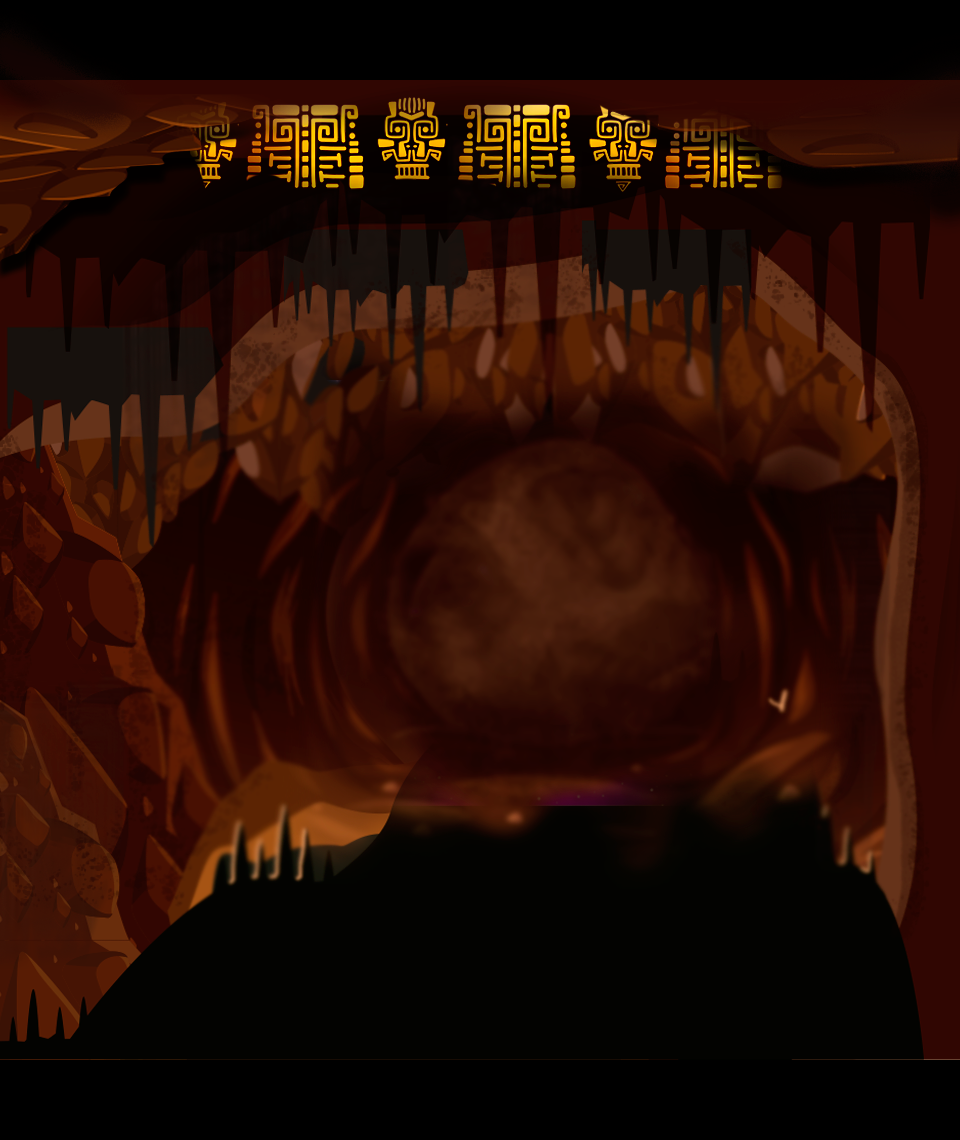
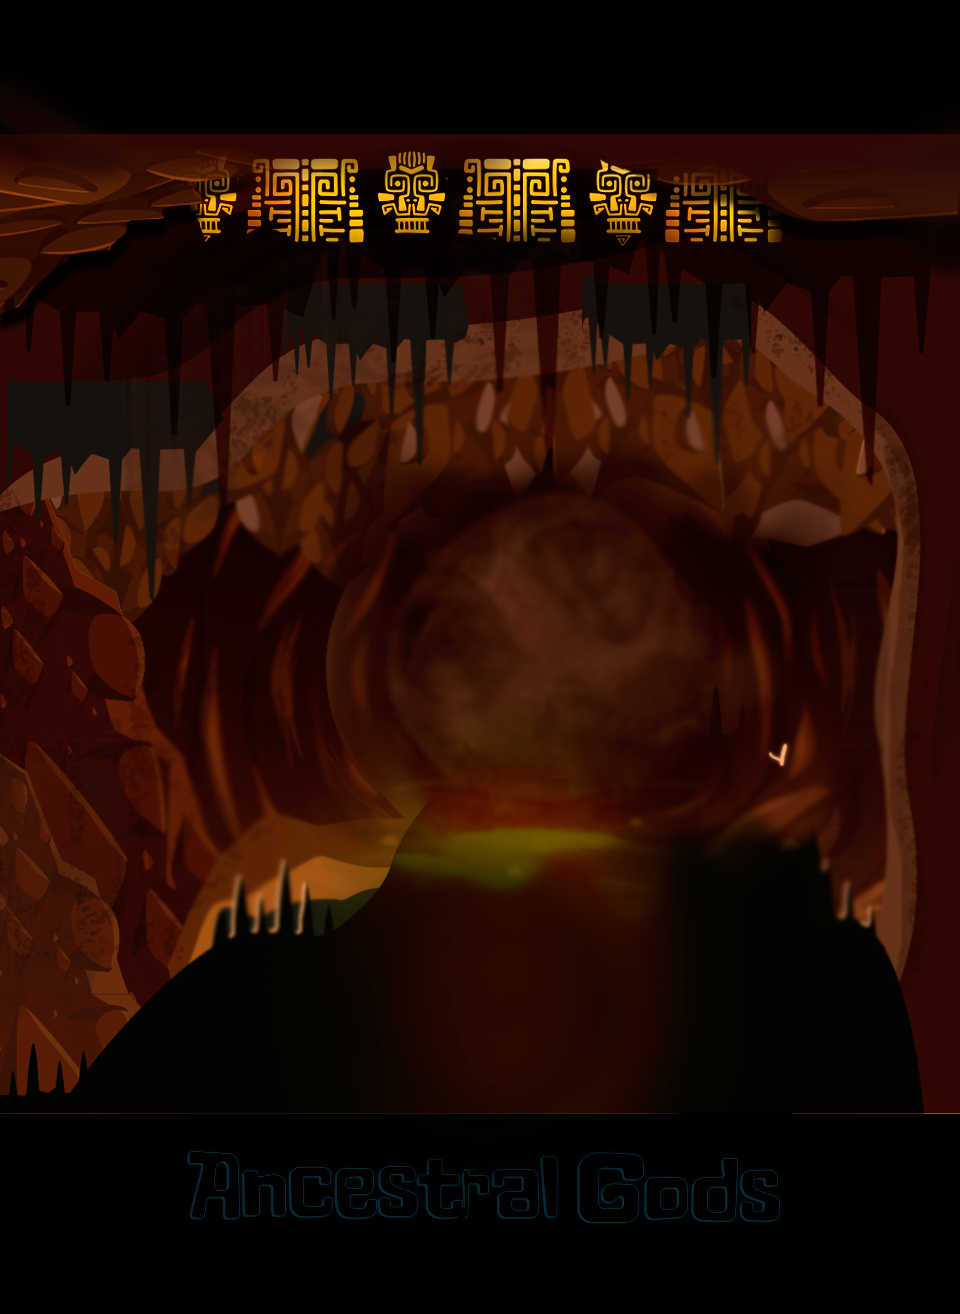
modificaicon despues de las tres observaciones, hover, fire, linea

diff --git a/css/main.css b/css/main.css
@@ -72,9 +72,9 @@ body {
 
 .nav-item > a:hover {
     color: #00aced;
-    /* -webkit-animation: neon2 1.5s ease-in-out infinite alternate */;
-    /* -moz-animation: neon2 1.5s ease-in-out infinite alternate */;
-    /* animation: neon2 1.5s ease-in-out infinite alternate; */
+    -webkit-animation: neon2 1.5s ease-in-out infinite alternate;
+    -moz-animation: neon2 1.5s ease-in-out infinite alternate;
+    animation: neon2 1.5s ease-in-out infinite alternate;
 }
 
 .custom-toggler .navbar-toggler-icon {
@@ -152,7 +152,7 @@ body {
 
 
 #cuadro{
-    margin-bottom: 16%;
+    margin-bottom: 12%;
 }
 
 @media only screen and (max-device-width : 768px) { 
@@ -165,15 +165,15 @@ body {
         
     }
     .parallax2{
-        height: 530px !important;
+        height: 580px !important;
         background-position-x: center !important;
     }
     .fire{       
         width: 40px !important;
         height: 66.667px !important;
         background-image: url('../img/fire2.png') !important;
-        animation: playX 0.9999s steps(4) infinite,
-        playY 2.9999s steps(3) infinite;
+        animation: playX 0.4444s steps(8) infinite,
+        playY 0.6666s steps(6) infinite;
     }
     @keyframes playX {
         from {background-position-x: 0px !important;}
@@ -206,7 +206,7 @@ body {
         
     }
     .parallax2{
-        height: 1090px !important;
+        height: 1190px !important;
         background-position-x: center !important;
     }
     .fire {    
@@ -241,10 +241,10 @@ body {
 /* ANTORCHAs */
 .fire {    
     width: 150px;
-    height: 150px;
+    height: 200px;
     background-image: url('../img/fire.png');
-    animation: playX 0.175s steps(4) infinite,
-               playY 1.175s steps(3) infinite;
+    animation: playX 0.213s steps(4) infinite,
+               playY 0.672s steps(3) infinite;
   }
   
   @keyframes playX {
@@ -257,11 +257,11 @@ body {
     to {background-position-y: -600px;}
   }
 
-  /* @keyframes neon2 {
+  @keyframes neon2 {
     from {
       text-shadow: 0 0 10px #fff, 0 0 20px #fff, 0 0 30px #fff, 0 0 40px #228DFF, 0 0 70px #228DFF, 0 0 80px #228DFF, 0 0 100px #228DFF, 0 0 150px #228DFF;
     }
     to {
       text-shadow: 0 0 5px #fff, 0 0 10px #fff, 0 0 15px #fff, 0 0 20px #228DFF, 0 0 35px #228DFF, 0 0 40px #228DFF, 0 0 50px #228DFF, 0 0 75px #228DFF;
     }
-  } */
+  }

diff --git a/index.html b/index.html
@@ -44,7 +44,7 @@
 		<div class="row">
 		  <div class="col-md-12">
 			<div class="parallax1">
-				<img src="img/3_mountain.png" alt="" style="position: absolute;bottom: 15%;" class="img-fluid parallax3">
+				<img src="img/3_mountain.png" alt="" style="position: absolute;bottom: 15%;" class="img-fluid">
 				<img src="img/2_rock_down.png" alt="" style="position: absolute;bottom: 0;" class="img-fluid"> 
 			</div>
 		  </div>		  

diff --git a/css/parallax.css b/css/parallax.css
@@ -12,7 +12,7 @@
 	position: relative;
 	background-image: url('../img/2_cave2.png');
 	/* Full height */
-	height: 1360px;
+	height: 1460px;
 	width: 100%;
 	background-repeat: no-repeat;
 	background-size: contain;
